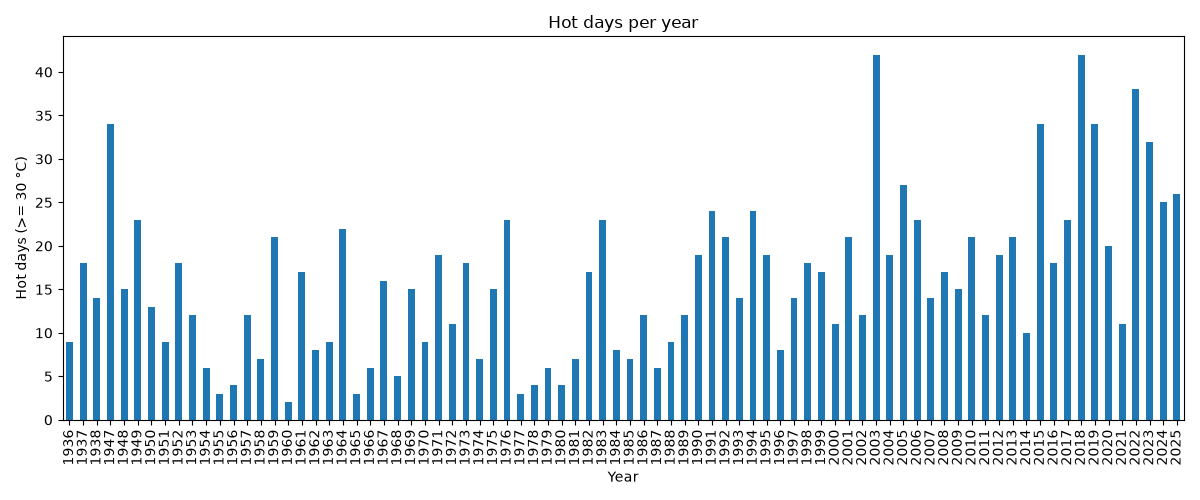
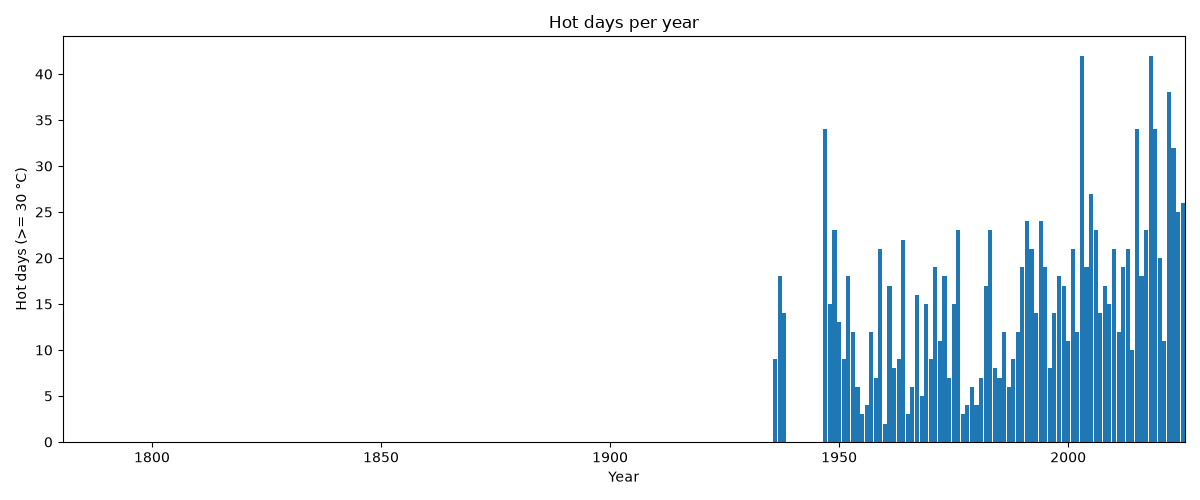
review: plot_hot_days & monthly_rain

diff --git a/students/mikagueven/ex07/ex07.py b/students/mikagueven/ex07/ex07.py
@@ -67,6 +67,8 @@ def hot_days(weather, threshold=30.0):
 
 def monthly_rain(weather, first_year, last_year):
     """The average total rain of each month (1 to 12), over the years first_year..last_year."""
+    if first_year > last_year:
+        raise ValueError("First year must not be greater than last year!")
     sub = weather[
         (weather["year"] >= first_year) & (weather["year"] <= last_year)
     ]  # select the requested years
@@ -83,10 +85,11 @@ def plot_hot_days(weather, path):
     """Save a bar chart of hot days (30 °C or more) per year as a picture at `path`."""
     counts = hot_days(weather)  # calculate hot days per year
     fig, ax = plt.subplots(figsize=(12, 5))  # create a new figure and chart
-    counts.plot.bar(ax=ax)  # create a bar chart
+    ax.bar(counts.index, counts.values, width=0.9)  # create a bar chart
     ax.set_xlabel("Year")  # set x-axis label
     ax.set_ylabel("Hot days (>= 30 °C)")  # set y-axis label
     ax.set_title("Hot days per year")  # set chart title
+    ax.set_xlim(weather["year"].min() - 0.5, weather["year"].max() + 0.5)
     fig.tight_layout()  # adjust spacing
     fig.savefig(path)  # save chart as an image
     plt.close(fig)

diff --git a/students/mikagueven/ex07/test_ex07.py b/students/mikagueven/ex07/test_ex07.py
@@ -172,3 +172,10 @@ def test_add_rainy_custom_threshold_and_nan():
     weather = pd.DataFrame({"rain": [2.0, 2.5, float("nan")]})
     result = add_rainy(weather, threshold=2.5)
     assert list(result["rainy"]) == list(pd.Series([0, 1, 0]))
+
+
+# Review
+def test_monthly_rain_rejects_swapped_years():
+    weather = pd.DataFrame({"year": [2001], "month": [1], "rain": [1.0]})
+    with pytest.raises(ValueError):
+        monthly_rain(weather, 2002, 2001)
